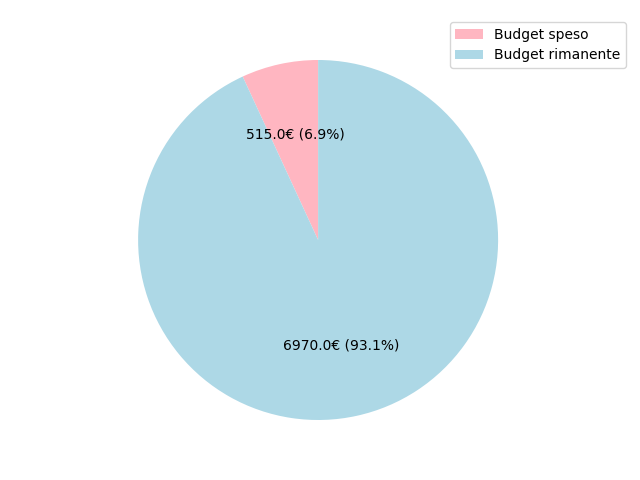
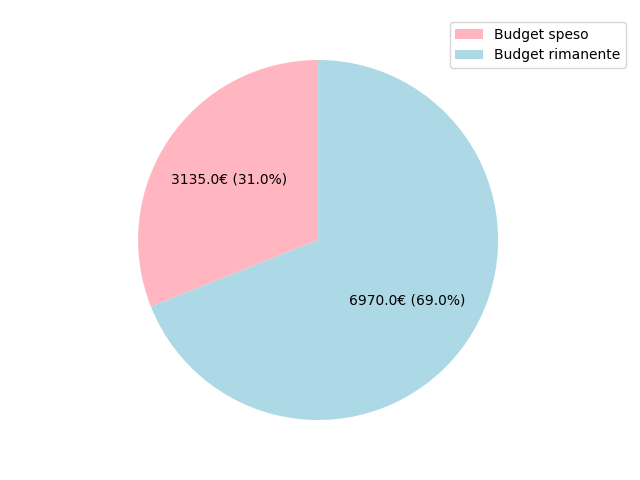
uniformati i grafici di ore e costi totali dei preventivi e consuntivi

Changed region(s): [[0.2188, 0.1562, 0.5312, 0.6562], [0.4375, 0.6875, 0.625, 0.75], [0.5312, 0.5938, 0.7188, 0.6562]]

diff --git a/src/3_PB/PianoDiProgetto/auto_preventivo.py b/src/3_PB/PianoDiProgetto/auto_preventivo.py
@@ -63,6 +63,9 @@ with open('preventivi/budget.csv', newline='') as csvfile:
     reader = csv.reader(csvfile, delimiter=',')
     budget_csv = [next(reader)] # skip header
     rows = list(reader)
+    # starting budget_time and budget_cash
+    starting_budget_time = int(rows[1][1])
+    starting_budget_cash = int(rows[1][2])
     budget_time = int(rows[sprintNum-1][1]) # we skip the first column
     budget_cash = int(rows[sprintNum-1][2])
     for row in rows:
@@ -182,9 +185,9 @@ plt.clf()
 # Creating the cost cash pie chart
 fig, ax = plt.subplots()
 wedges, texts, autotexts = ax.pie(
-    [budget_cash - remaining_cash, remaining_cash],
+    [starting_budget_cash - remaining_cash, remaining_cash],
     labels=None,
-    autopct=lambda p: "{:.1f}€ ({:.1f}%)".format(p * budget_cash / 100, p),
+    autopct=lambda p: "{:.1f}€ ({:.1f}%)".format(p * starting_budget_cash / 100, p),
     startangle=90,
     colors=["#FFB6C1", "#ADD8E6"],
 )
@@ -197,8 +200,8 @@ plt.clf()
 # Creating the cost time pie chart
 fig, ax = plt.subplots()
 wedges, texts, autotexts = ax.pie(
-    [budget_time - remaining_time, remaining_time],
-    autopct=lambda p: "{:.1f} ({:.1f}%)".format(p * budget_time / 100, p),
+    [starting_budget_time - remaining_time, remaining_time],
+    autopct=lambda p: "{:.1f} ({:.1f}%)".format(p * starting_budget_time / 100, p),
     startangle=90,
     colors=["#FFB6C1", "#ADD8E6"],
 )
